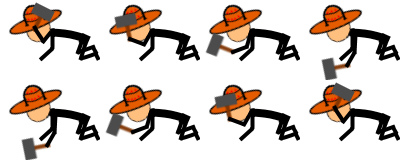
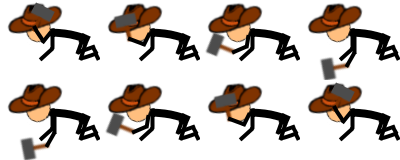
Changement de chapeau Worker + coor bug marteau lvl 1 + changement nom image de la lune.

diff --git a/core/src/com/fixthewall/game/actors/Moon.java b/core/src/com/fixthewall/game/actors/Moon.java
@@ -16,7 +16,7 @@ public class Moon extends Actor {
     public Moon (AssetManager ass){
         //set position
         setCoor();
-        texture = new TextureRegion(ass.get("moon2.png", Texture.class));
+        texture = new TextureRegion(ass.get("TheMoon.png", Texture.class));
         this.setWidth(texture.getRegionWidth());
         this.setHeight(texture.getRegionWidth());
         this.bounds = new Rectangle(getX(), getY(), getWidth(), getHeight());

diff --git a/core/src/com/fixthewall/game/Game.java b/core/src/com/fixthewall/game/Game.java
@@ -109,7 +109,7 @@ public class Game extends com.badlogic.gdx.Game {
         ass.load("Sun.png", Texture.class);
         ass.load("echelle.png", Texture.class);
         ass.load("trump.png", Texture.class);
-        ass.load("moon2.png", Texture.class);
+        ass.load("TheMoon.png", Texture.class);
         //dossier nuke
         ass.load("nuke/nuke.png", Texture.class);
         //dossier fx

diff --git a/core/src/com/fixthewall/game/logic/GameLogic.java b/core/src/com/fixthewall/game/logic/GameLogic.java
@@ -44,7 +44,7 @@ public class GameLogic implements Serializable {
         this.maxHealth = 100;
         health = maxHealth;
         bricks = 0;
-        hammerLevel = 1;
+        hammerLevel = 0;// 0 correspond au premier indice de l'array d'images de marteaux.
         healingPower = 1;
         bricksPower = 1;
         score = 0.0;
